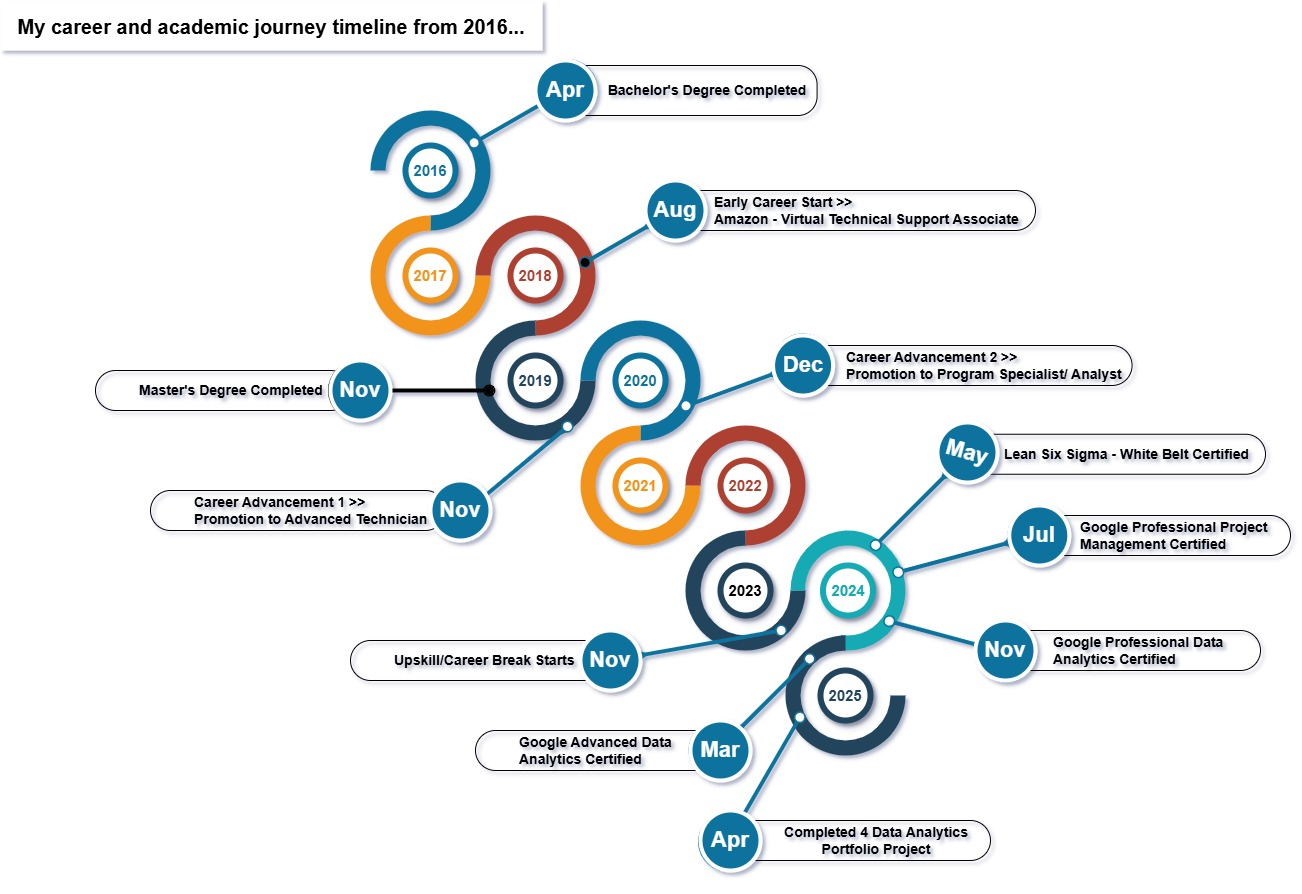
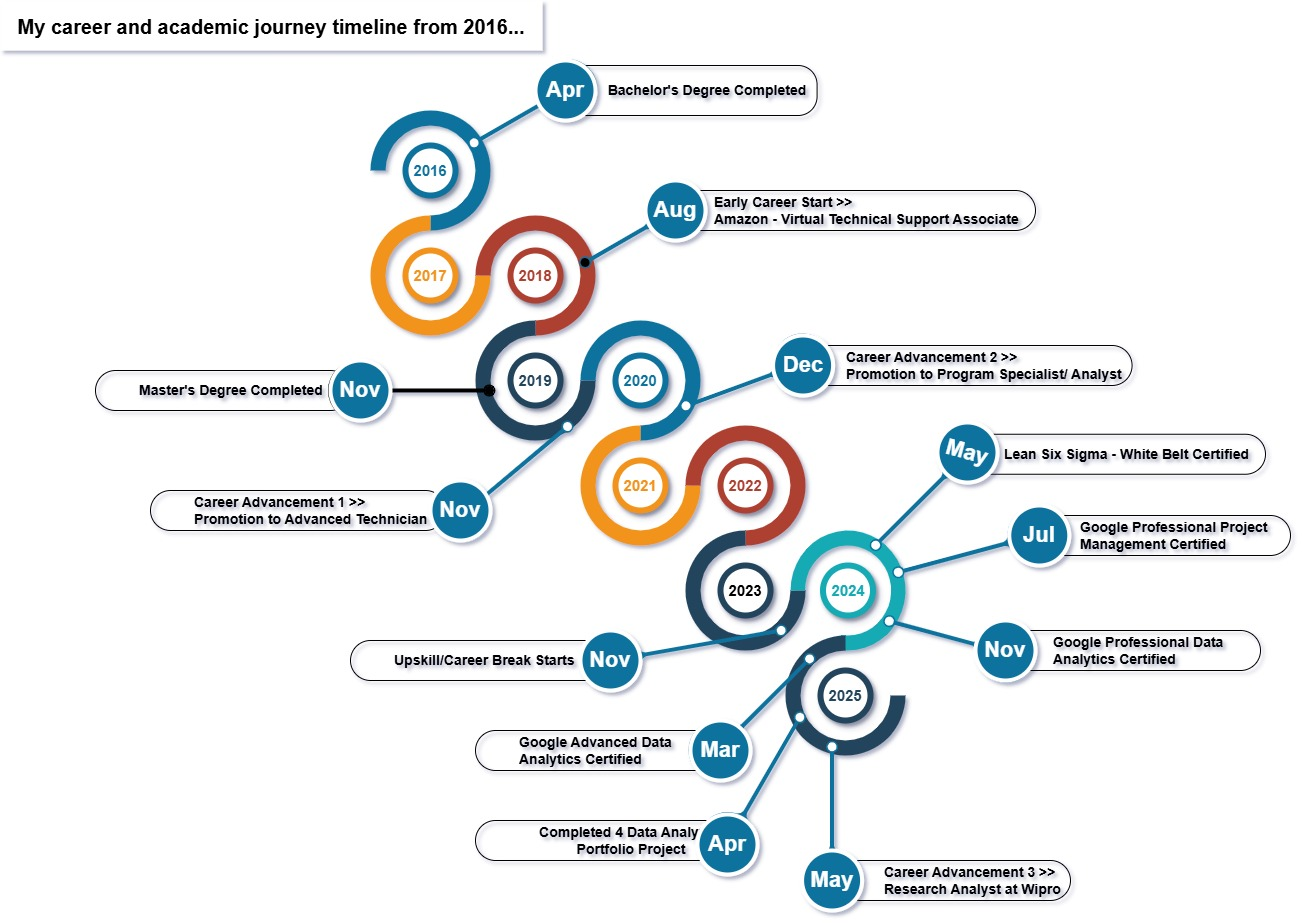
Update v.1 post may_2025 career_milestone

Changed region(s): [[0.0614, 0.0604, 1.0, 0.9966], [0.0, 0.0302, 0.3994, 0.0604]]

diff --git a/about.html b/about.html
@@ -82,14 +82,15 @@
 									<img src="images/Animated1.jpg" alt="Vishnu Venugopal" style="border-radius: 50%; width: 120px; height: 120px; object-fit: cover; margin-right: 20px; border: 2px solid #ccc;" />
 									<div>
 										<h2 style="margin: 0;"><a href="index.html">Hello, I'm Vishnu..</a></h2>
-										<h4 style="margin: 0;"><a href="index.html">Data Analyst | Program Manager</a></h4>
+										<h4 style="margin: 0;"><a href="index.html">Reasearch Analyst @ Wipro | Ex-Amazon Program Manager</a></h4>
 										<p style="margin: 0;"><a href="https://www.linkedin.com/in/vishnu-venugopal93/">@venugvis</a></p>
 									</div>
 								</div>
 								
 								
                                         <p style="text-align: left;">
-                                            My current work involves <strong>data cleaning</strong>, <strong>EDA</strong>, <strong>feature engineering</strong>, <strong>statistic testing</strong> and <strong>predictive modeling</strong>. 
+                                            Currently working at <strong>Wipro</strong> as a <strong> Research Analyst</strong>.</br>
+											My skill set involves <strong>data cleaning</strong>, <strong>EDA</strong>, <strong>feature engineering</strong>, <strong>statistic testing</strong> and <strong>predictive modeling</strong>. 
                                             I’ve recently built machine learning models to <a href = "https://github.com/venugvis/waze-customer-churn"><strong>predict customer churn</strong></a>, 
                                             <a href = "https://github.com/venugvis/salifort-employee-retention-prediction"><strong>employee attrition</strong></a>, and 
                                             <a href="https://github.com/venugvis/customer-purchase-prediction"><strong>purchase behavior</strong></a> — applying techniques like <strong>Regression</strong>, <strong>Random Forest</strong>, <strong>XGBoost</strong>, 
@@ -107,13 +108,13 @@
                                             After working with <strong>advanced Excel, Tableau, and internal data analytics tools</strong> during my stint at <strong>Amazon</strong>, I realized <strong>I’d been doing analytics all along</strong> — I just needed the technical foundation to take it further. 
                                             So I committed to learning <strong>Python, SQL, machine learning, and model evaluation.</strong> 
                                         </br></br>   
-                                            Now, with <strong>three full-stack ML case studies</strong> under my belt <i>(as of 15 April 2025.. there are more coming..)</i>, I’m confident in <strong>my ability to turn raw data into insights that drive decisions</strong>.
-                                        </br></br>   
+                                            <!-- Now, with <strong>three full-stack ML case studies</strong> under my belt <i>(as of 15 April 2025.. there are more coming..)</i>, I’m confident in <strong>my ability to turn raw data into insights that drive decisions</strong>.
+                                        </br></br>    -->
                                             In my free time, I enjoy playing my guitar, iot projects, reading, spending time with family and my partner. 
                                             I’m always seeking new knowledge, always curious, fast learner, and excited to collaborate with teams that care about using data to solve real problems.
                                             </p>
 										</br></br>
-										<strong><i>"In the mountains of truth, you never climb in vain: either you reach a higher point today, or you exercise your strength in order to be able to climb higher tomorrow."
+										<strong><i>"In the mountains of truth, you never climb in vain: either you reach a higher point today, or you exercise your strength in order to be able to climb higher tomorrow..."
 											— Friedrich Nietzsche</i></strong>
 
 								<a href="about.html" class="image main"><img src="images/Professional Journey.jpg" alt="" /></a>
@@ -148,7 +149,7 @@
 
 				<!-- Copyright -->
 					<div id="copyright">
-						<ul><li>&copy; Vishnu Venugopal (2025)</li></ul>
+						<ul><li>&copy; Vishnu Venugopal (May 2025)</li></ul>
 					</div>
 
 			</div>

diff --git a/resume.html b/resume.html
@@ -80,6 +80,18 @@
 
                             <!-- Work Experience -->
                             <article>
+								<h3>Research Analyst | Wipro | Hyderabad, India <span style="float:right;">May 2025 – Present</span></h3>
+                                <p><em><strong>Note: under construction, as I just joined this role...will update this soon</strong></em></p>
+                                <!-- <ul>
+                                    <li>Analyzed trends in customer experience and support workflows, identifying optimization opportunities that reduced issue resolution time by 90%</li>
+                                    <li>Partnered with cross-functional teams to scope experiments and process changes; translated findings into stakeholder-ready visuals and recommendations</li>
+                                    <li>Developed Python-based scripts and automated tagging tools that improved data accuracy and saved ~60% analyst time</li>
+                                    <li>Improved SLA adherence and reduced ticket resolution time through workflow automation and escalation analytics</li>
+                                    <li>Achieved annual savings of $123k by redesigning the Amazon Music promo code distribution model</li>
+                                    <li>Synthesized insights into executive reports for senior ops leadership, driving decision on workflow redesign and resource allocation</li>
+                                    <li>Directed global on-call support for Ticketing Ops, boosting productivity and ensuring smooth workflow transitions</li>
+                                </ul> -->
+                                <hr>
                                 <h3>Program Specialist | Amazon | Hyderabad, India <span style="float:right;">Dec 2020 – Nov 2023</span></h3>
                                 <p><em><strong>Led analytics for ticketing and support operations across global Amazon Device, Digital and Alexa Services, tracking SLAs and issue resolutions with Tableau, SQL and Excel-based dashboards</strong></em></p>
                                 <ul>

diff --git a/index.html b/index.html
@@ -51,7 +51,7 @@
 					<div id="intro">
 						<h1>Vishnu Venugopal<br /></h1>
 						<h1>Portfolio</h1>
-						<p>A Google-certified data analyst specializing in ETL, EDA, predictive modeling, machine learning and data visualization...
+						<p>Reasearch Analyst at Wipro, specializing in ETL, EDA, predictive modeling, machine learning and data visualization...
 						</p>
 						<ul class="actions">
 							<li><a href="#header" class="button icon solid solo fa-arrow-down scrolly">Continue</a></li>
@@ -196,7 +196,7 @@
 
 				<!-- Copyright -->
 					<div id="copyright">
-						<ul><li>&copy; Vishnu Venugopal (2025)</li></ul>
+						<ul><li>&copy; Vishnu Venugopal (May 2025)</li></ul>
 					</div>
 
 			</div>

diff --git a/contact.html b/contact.html
@@ -118,9 +118,10 @@
             </section>
         </footer>
 
-        <div id="copyright">
-            <ul><li>&copy; Vishnu Venugopal (2025)</li></ul>
-        </div>
+        <!-- Copyright -->
+					<div id="copyright">
+						<ul><li>&copy; Vishnu Venugopal (May 2025)</li></ul>
+					</div>
     </div>
 
 		<!-- Scripts -->

diff --git a/employee_attrition_prediction.html b/employee_attrition_prediction.html
@@ -157,7 +157,7 @@
 
 				<!-- Copyright -->
 					<div id="copyright">
-						<ul><li>&copy; Vishnu Venugopal (2025)</li></ul>
+						<ul><li>&copy; Vishnu Venugopal (May 2025)</li></ul>
 					</div>
 
 			</div>

diff --git a/predicting_customer_purchase_behavior.html b/predicting_customer_purchase_behavior.html
@@ -279,7 +279,7 @@
 
 				<!-- Copyright -->
 					<div id="copyright">
-						<ul><li>&copy; Vishnu Venugopal (2025)</li></ul>
+						<ul><li>&copy; Vishnu Venugopal (May 2025)</li></ul>
 					</div>
 
 			</div>

diff --git a/waze_churn_prediction.html b/waze_churn_prediction.html
@@ -150,7 +150,7 @@
 
 				<!-- Copyright -->
 					<div id="copyright">
-						<ul><li>&copy; Vishnu Venugopal (2025)</li></ul>
+						<ul><li>&copy; Vishnu Venugopal (May 2025)</li></ul>
 					</div>
 
 			</div>
